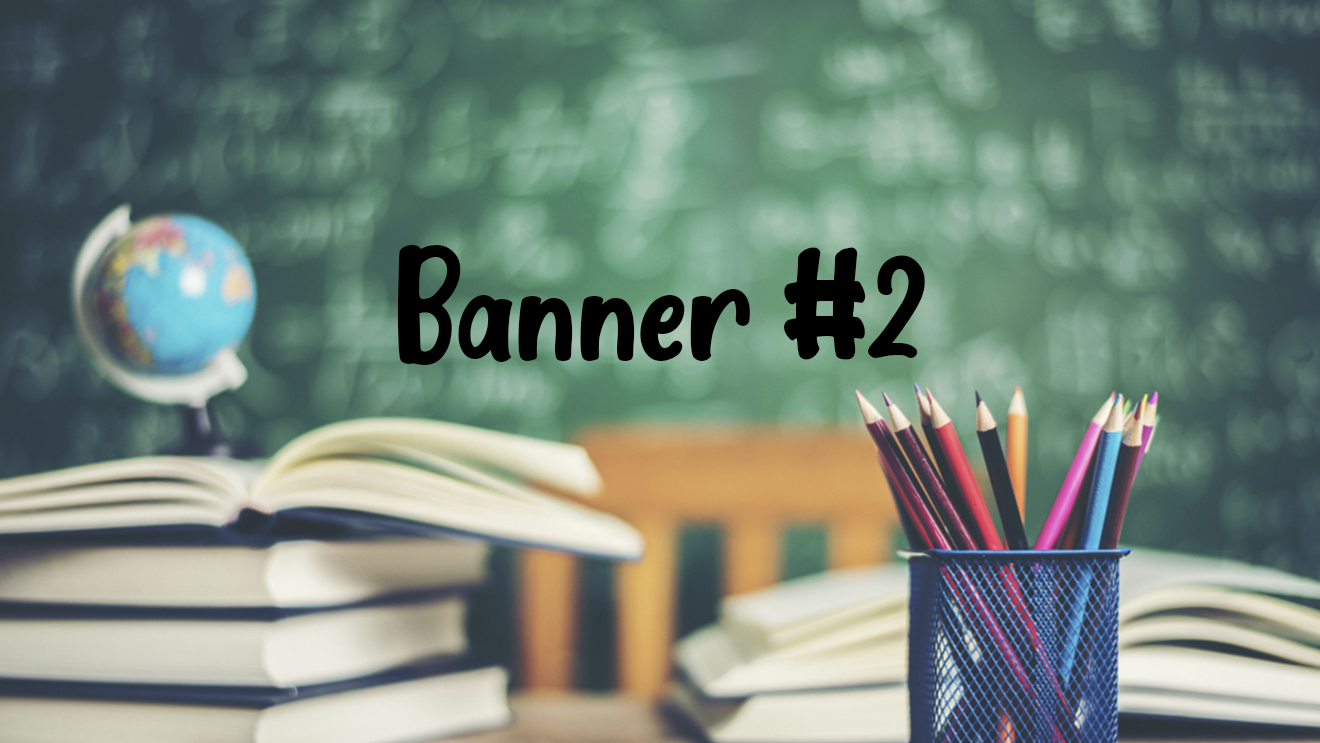
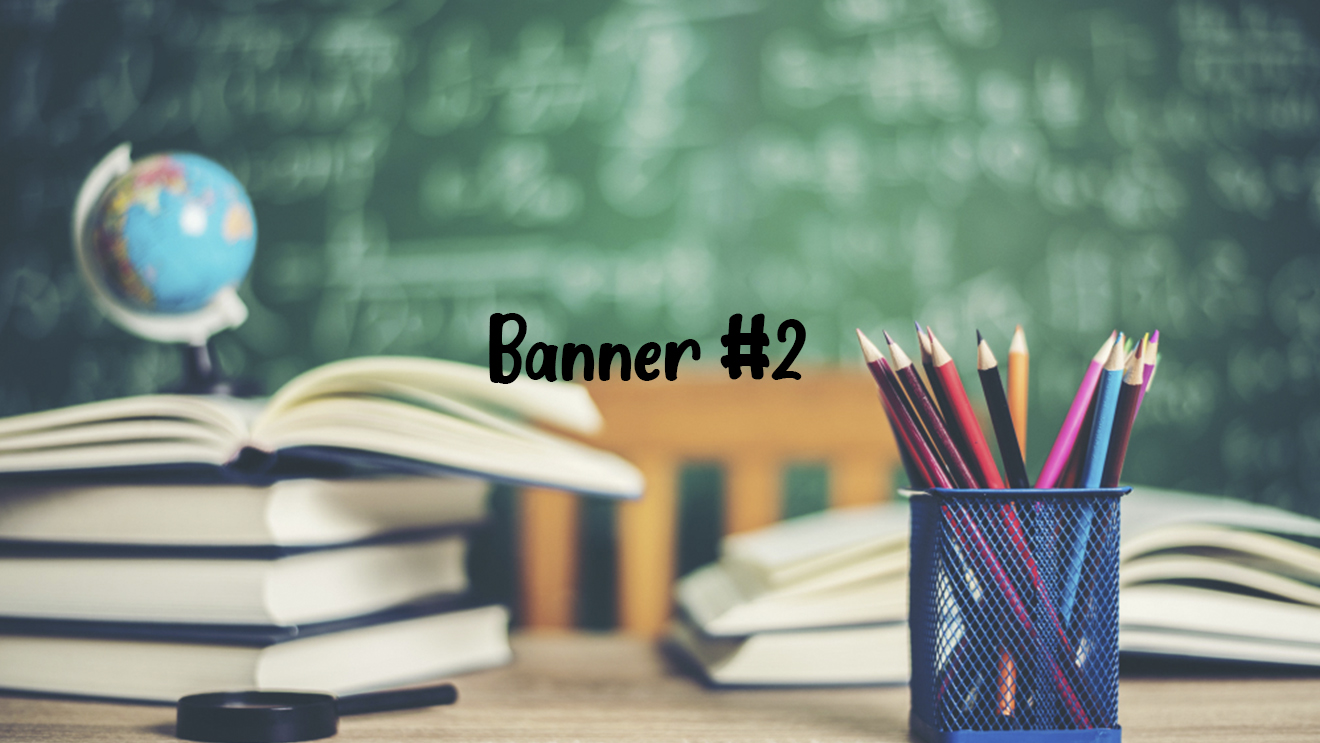
diseño

diff --git a/docs/index.html b/docs/index.html
@@ -71,15 +71,15 @@
 
         <!--Banner-->
             <div id="carouselExampleControls" class="carousel slide carousel-fade" data-bs-ride="carousel">
-                <div class="carousel-inner bg-dark">
+                <div class="carousel-inner">
                     <div class="carousel-item active d-flex justify-content-center">
-                        <div class="div-banner" style="max-width: 1320px;">
-                            <img src="resources\img\banner1.jpg" class="img-fluid">
+                        <div class="div-banner">
+                            <img id="img_b1" src="resources\img\banner1-xl.jpg" class="img-fluid">
                         </div>
                     </div>
                     <div class="carousel-item d-flex justify-content-center">
-                        <div class="div-banner" style="max-width: 1320px;">
-                            <img src="resources\img\banner2.jpg" class="img-fluid">
+                        <div class="div-banner">
+                            <img id="img_b2" src="resources\img\banner2-xl.jpg" class="img-fluid">
                         </div>
                     </div>
                 </div>
@@ -365,6 +365,22 @@
         var carousel = new bootstrap.Carousel(myCarousel, {
             interval: 2000
         })
+    </script>
+    <script>
+        // image depending of screen size
+
+        function reportWindowSize() {
+            if(window.innerWidth>1000){
+                $("#img_b1").attr("src", "resources/img/banner1-xl.jpg");
+                $("#img_b2").attr("src", "resources/img/banner2-xl.jpg");
+            }
+            else{
+                $("#img_b1").attr("src", "resources/img/banner1.jpg");
+                $("#img_b2").attr("src", "resources/img/banner2.jpg");
+            }
+        }
+        reportWindowSize();
+        window.onresize = reportWindowSize;
     </script>
 </body>
 </html>
